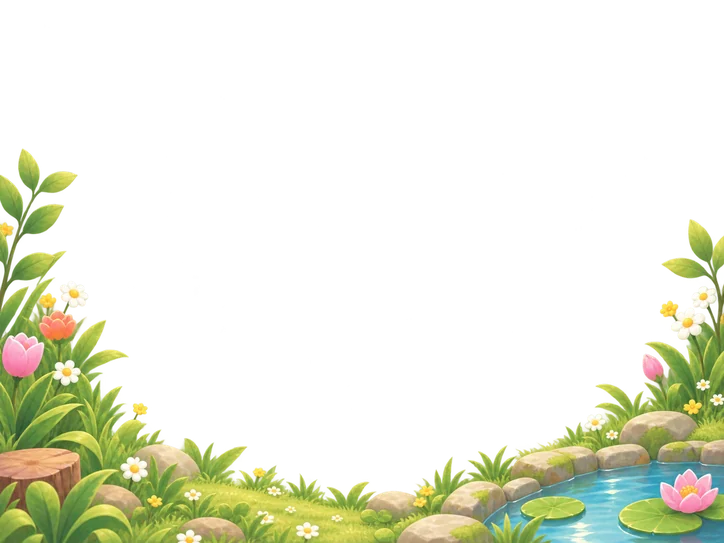
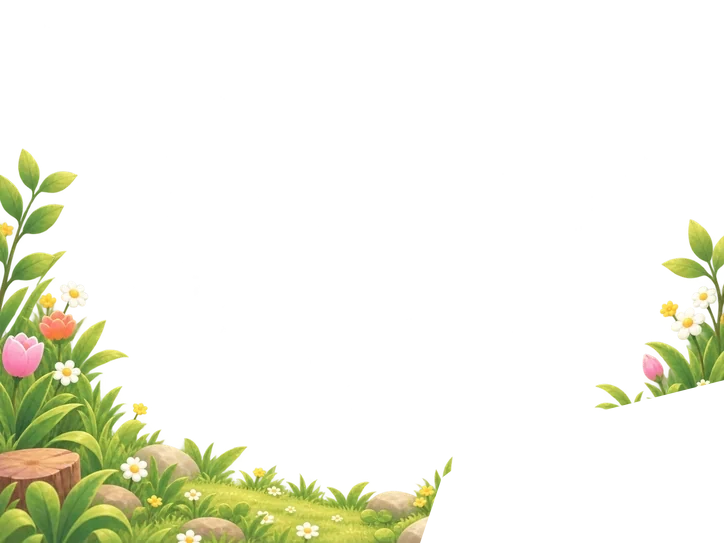
fix: stabilize ui2 garden rendering across devices

Changed region(s): [[0.5773, 0.6777, 1.0, 1.0]]

diff --git a/config/worldSceneLayout.ts b/config/worldSceneLayout.ts
@@ -1,0 +1,57 @@
+/**
+ * UI2 花园使用同一套 0~100 场景坐标。
+ *
+ * 坐标原点位于 4:3 scene-shell 左上角。角色与植物使用脚底锚点，
+ * 其余元素使用中心锚点。这里只描述视觉位置，不参与任何成长或解锁计算。
+ */
+export const UI2_WORLD_SCENE_LAYOUT = {
+  companion: { x: 30, y: 92 },
+  plant: { x: 46, y: 89 },
+  path: { x: 62, y: 72 },
+  pond: { x: 75, y: 72 },
+  decor: {
+    flower: { x: 60, y: 89 },
+    stone: { x: 93, y: 90 },
+    grass: { x: 8, y: 90 },
+  },
+  discoveries: {
+    nearPlants: { x: 50, y: 32 },
+    grassEdge: { x: 11, y: 86 },
+    farPath: { x: 84, y: 46 },
+    byRoad: { x: 65, y: 73 },
+    nightAir: { x: 80, y: 41 },
+    inSky: { x: 48, y: 14 },
+  },
+} as const;
+
+const p = (value: number) => `${value}%`;
+
+/** WXSS 只消费变量，避免各图层自行维护百分比坐标。 */
+export const UI2_WORLD_SCENE_STYLE = [
+  `--scene-companion-x:${p(UI2_WORLD_SCENE_LAYOUT.companion.x)}`,
+  `--scene-companion-y:${p(UI2_WORLD_SCENE_LAYOUT.companion.y)}`,
+  `--scene-plant-x:${p(UI2_WORLD_SCENE_LAYOUT.plant.x)}`,
+  `--scene-plant-y:${p(UI2_WORLD_SCENE_LAYOUT.plant.y)}`,
+  `--scene-path-x:${p(UI2_WORLD_SCENE_LAYOUT.path.x)}`,
+  `--scene-path-y:${p(UI2_WORLD_SCENE_LAYOUT.path.y)}`,
+  `--scene-pond-x:${p(UI2_WORLD_SCENE_LAYOUT.pond.x)}`,
+  `--scene-pond-y:${p(UI2_WORLD_SCENE_LAYOUT.pond.y)}`,
+  `--scene-decor-flower-x:${p(UI2_WORLD_SCENE_LAYOUT.decor.flower.x)}`,
+  `--scene-decor-flower-y:${p(UI2_WORLD_SCENE_LAYOUT.decor.flower.y)}`,
+  `--scene-decor-stone-x:${p(UI2_WORLD_SCENE_LAYOUT.decor.stone.x)}`,
+  `--scene-decor-stone-y:${p(UI2_WORLD_SCENE_LAYOUT.decor.stone.y)}`,
+  `--scene-decor-grass-x:${p(UI2_WORLD_SCENE_LAYOUT.decor.grass.x)}`,
+  `--scene-decor-grass-y:${p(UI2_WORLD_SCENE_LAYOUT.decor.grass.y)}`,
+  `--scene-discovery-near-plants-x:${p(UI2_WORLD_SCENE_LAYOUT.discoveries.nearPlants.x)}`,
+  `--scene-discovery-near-plants-y:${p(UI2_WORLD_SCENE_LAYOUT.discoveries.nearPlants.y)}`,
+  `--scene-discovery-grass-edge-x:${p(UI2_WORLD_SCENE_LAYOUT.discoveries.grassEdge.x)}`,
+  `--scene-discovery-grass-edge-y:${p(UI2_WORLD_SCENE_LAYOUT.discoveries.grassEdge.y)}`,
+  `--scene-discovery-far-path-x:${p(UI2_WORLD_SCENE_LAYOUT.discoveries.farPath.x)}`,
+  `--scene-discovery-far-path-y:${p(UI2_WORLD_SCENE_LAYOUT.discoveries.farPath.y)}`,
+  `--scene-discovery-by-road-x:${p(UI2_WORLD_SCENE_LAYOUT.discoveries.byRoad.x)}`,
+  `--scene-discovery-by-road-y:${p(UI2_WORLD_SCENE_LAYOUT.discoveries.byRoad.y)}`,
+  `--scene-discovery-night-air-x:${p(UI2_WORLD_SCENE_LAYOUT.discoveries.nightAir.x)}`,
+  `--scene-discovery-night-air-y:${p(UI2_WORLD_SCENE_LAYOUT.discoveries.nightAir.y)}`,
+  `--scene-discovery-in-sky-x:${p(UI2_WORLD_SCENE_LAYOUT.discoveries.inSky.x)}`,
+  `--scene-discovery-in-sky-y:${p(UI2_WORLD_SCENE_LAYOUT.discoveries.inSky.y)}`,
+].join(';');

diff --git a/pages/index/index.ts b/pages/index/index.ts
@@ -586,6 +586,31 @@ function markWelcomeShown(): void {
   try { wx.setStorageSync(STORAGE_KEY_HOME_WELCOME_SHOWN, 1); } catch { /* ignore */ }
 }
 
+/** 开发环境本地诊断：只写控制台，不持久化、不上报。 */
+function logUi2GardenWindowInfo(): void {
+  if (!isDevEnv()) return;
+  try {
+    const wxApi = wx as any;
+    const windowInfo = typeof wxApi.getWindowInfo === 'function'
+      ? wxApi.getWindowInfo()
+      : {};
+    const systemInfo = typeof wxApi.getSystemInfoSync === 'function'
+      ? wxApi.getSystemInfoSync()
+      : {};
+    console.info('[ui2-garden][device-info]', {
+      windowWidth: windowInfo.windowWidth ?? systemInfo.windowWidth,
+      windowHeight: windowInfo.windowHeight ?? systemInfo.windowHeight,
+      pixelRatio: windowInfo.pixelRatio ?? systemInfo.pixelRatio,
+      safeArea: windowInfo.safeArea ?? systemInfo.safeArea,
+      statusBarHeight: windowInfo.statusBarHeight ?? systemInfo.statusBarHeight,
+      SDKVersion: systemInfo.SDKVersion,
+      platform: systemInfo.platform,
+    });
+  } catch (error) {
+    console.warn('[ui2-garden][device-info] unavailable', error);
+  }
+}
+
 Page({
   data: {
     dateCN: '',
@@ -659,6 +684,7 @@ Page({
   today: '' as string,
 
   onLoad() {
+    logUi2GardenWindowInfo();
     // 首次进入：迁移旧 DailyRecord.xxxCompleted 到 MealRecord（防止积分丢失）
     try { migrateAllLegacyDailyRecords(); } catch { /* ignore */ }
 

diff --git a/components/companion-world/index.ts b/components/companion-world/index.ts
@@ -3,11 +3,13 @@ import {
   UI2_GARDEN_ASSETS,
   UI2_PLANT_ASSETS,
 } from '../../config/worldGrowthConfig';
+import { UI2_WORLD_SCENE_STYLE } from '../../config/worldSceneLayout';
 
 Component({
   data: {
     decorAssets: WORLD_DECOR_ASSETS,
     gardenAssets: UI2_GARDEN_ASSETS,
+    sceneCoordinateStyle: UI2_WORLD_SCENE_STYLE,
     plantStageAsset: UI2_PLANT_ASSETS[0],
     plantAssetReady: true,
     gardenAssetReady: {
